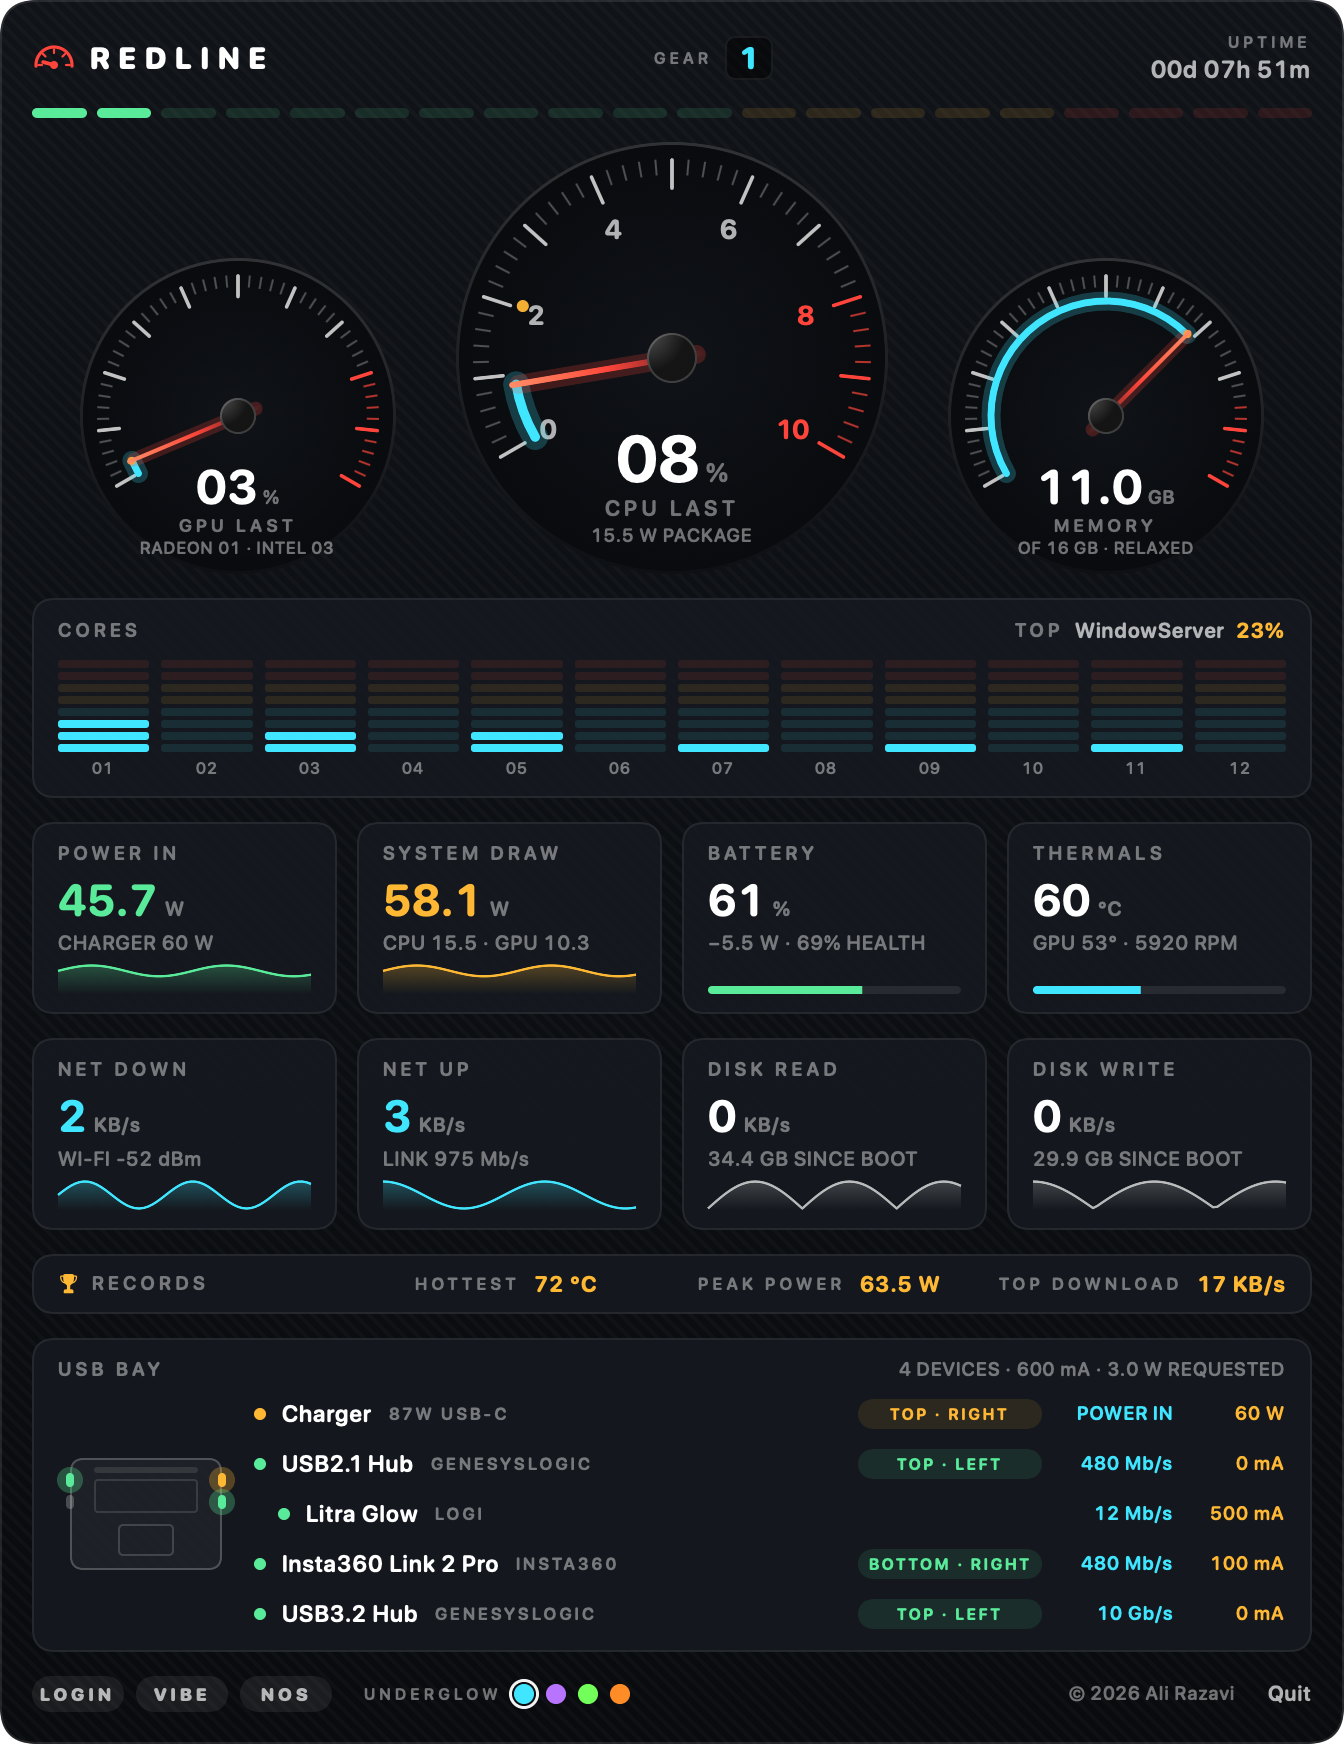
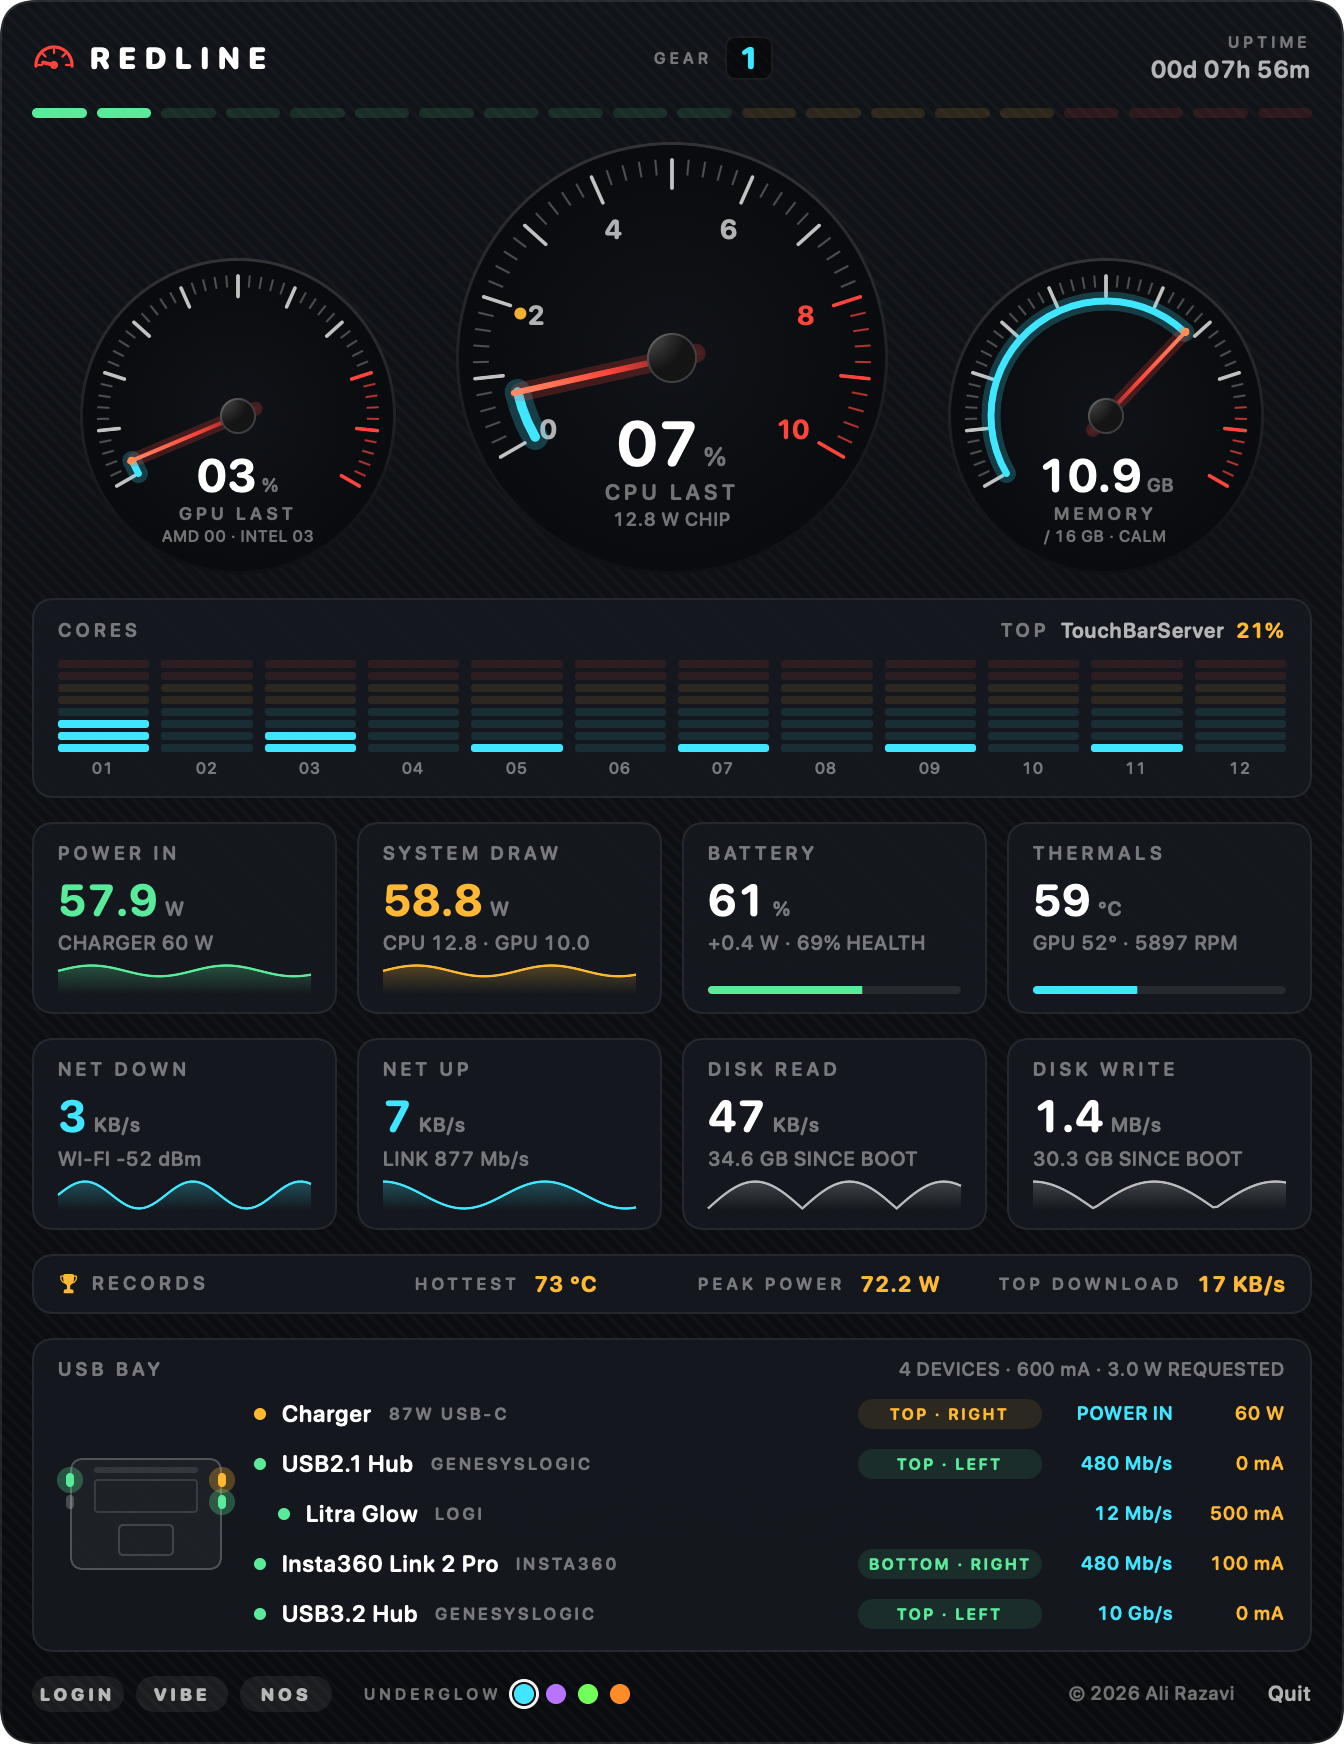
Dial text kept inside the dials; richer VIBE backdrop (colour drift, aurora, sparks, double rings)

diff --git a/src/main.swift b/src/main.swift
@@ -159,7 +159,7 @@ final class Probe {
             if c.contains("AMD") { amd = max(amd, u); seenAMD = true } else if c.contains("Intel") { intel = max(intel, u); seenIntel = true } else { other = max(other, u) }
         }
         s.gpu = min(1, max(amd, intel, other) / 100)
-        s.gpuNote = seenAMD && seenIntel ? String(format: "RADEON %02.0f · INTEL %02.0f", amd, intel) : (seenAMD ? "RADEON" : seenIntel ? "INTEL" : "GPU")
+        s.gpuNote = seenAMD && seenIntel ? String(format: "AMD %02.0f · INTEL %02.0f", amd, intel) : (seenAMD ? "RADEON" : seenIntel ? "INTEL" : "GPU")
 
         // Memory
         var vm = vm_statistics64(); var c = mach_msg_type_number_t(MemoryLayout<vm_statistics64>.size / MemoryLayout<integer_t>.size)
@@ -492,12 +492,13 @@ struct Dial: View {
                 .frame(width: size * 0.115, height: size * 0.115).overlay(Circle().strokeBorder(Color.white.opacity(0.18), lineWidth: 1))
             VStack(spacing: 0) {
                 HStack(alignment: .firstTextBaseline, spacing: 2) {
-                    Text(big).font(digits(size * 0.15, .bold)).foregroundColor(.white)
+                    Text(big).font(digits(size * 0.145, .bold)).foregroundColor(.white)
                     Text(unit).font(.system(size: size * 0.06, weight: .semibold, design: .rounded)).foregroundColor(Ink.dim)
                 }
                 label(title, max(9, size * 0.05))
-                Text(sub).font(digits(max(8.5, size * 0.043), .medium)).foregroundColor(Ink.dim).padding(.top, 1).lineLimit(1)
-            }.offset(y: size * 0.29)
+                Text(sub).font(digits(max(8, size * 0.043), .medium)).foregroundColor(Ink.dim).padding(.top, 1).lineLimit(1)
+                    .frame(maxWidth: size * 0.56)      // never wider than the circle is at that height
+            }.offset(y: size * 0.255)
         }
         .frame(width: size, height: size)
         .animation(spring, value: value).animation(.easeOut(duration: 0.4), value: peak)
@@ -742,9 +743,9 @@ struct Panel: View {
             HStack(alignment: .bottom, spacing: 30) {
                 Dial(title: "GPU LAST", value: v(s.gpu), peak: m.peakGPU, big: String(format: "%02.0f", s.gpu * 100), unit: "%", sub: s.gpuNote, size: 158)
                 Dial(title: "CPU LAST", value: v(s.cpu), peak: m.peakCPU, big: String(format: "%02.0f", s.cpu * 100), unit: "%",
-                     sub: s.cpuW.map { String(format: "%.1f W PACKAGE", $0) } ?? "x10 %", size: 216, numbers: true)
+                     sub: s.cpuW.map { String(format: "%.1f W CHIP", $0) } ?? "x10 %", size: 216, numbers: true)
                 Dial(title: "MEMORY", value: v(s.mem), peak: m.peakMem, big: String(format: "%.1f", s.memUsedGB), unit: "GB",
-                     sub: String(format: "OF %.0f GB · %@", s.memTotalGB, s.pressure >= 4 ? "CRITICAL" : s.pressure == 2 ? "TIGHT" : "RELAXED"), size: 158, redFrom: 0.85)
+                     sub: String(format: "/ %.0f GB · %@", s.memTotalGB, s.pressure >= 4 ? "CRITICAL" : s.pressure == 2 ? "TIGHT" : "CALM"), size: 158, redFrom: 0.85)
             }
             // cores
             VStack(spacing: 8) {
@@ -952,12 +953,14 @@ final class AudioTap {
 }
 
 // ---------- The backdrop: plain Core Animation layers behind the gauges, so it costs almost nothing ----------
-// With VIBE on it shows three silky, mirrored waves (bass in the middle), a breathing glow behind each dial,
-// and a ring that leaves the big dial on every kick. Everything is symmetric about the centre line.
+// With VIBE on: three silky mirrored waves whose colour drifts from the accent in the middle to magenta at the edges,
+// a soft aurora and a breathing glow behind each dial, fine sparks rising on the treble, and a double ring leaving
+// the big dial on every kick. Everything is symmetric about the centre line.
 final class Backdrop: NSView {
     private let grad = CAGradientLayer(), under = CAGradientLayer(), flashLayer = CALayer()
-    private let waveBox = CALayer(), waveFade = CAGradientLayer(), crest = CAShapeLayer(), crestGlow = CAShapeLayer(), ringBox = CALayer()
-    private var waves: [CAShapeLayer] = [], glows: [CAGradientLayer] = [], halos: [CALayer] = []
+    private let waveBox = CALayer(), waveFade = CAGradientLayer(), ringBox = CALayer(), sparks = CAEmitterLayer()
+    private var fills: [CAGradientLayer] = [], masks: [CAShapeLayer] = []          // 3 waves, then crest glow, then crest line
+    private var glows: [CAGradientLayer] = [], aurora: [CAGradientLayer] = [], halos: [CALayer] = []
     private var k: CGFloat = 1, tint = -1, bassAvg: CGFloat = 0, beat: CGFloat = 0, lastRing = 0.0
     private static let points = 21
     private var heights = Array(repeating: [CGFloat](repeating: 0, count: Backdrop.points), count: 3)
@@ -969,12 +972,29 @@ final class Backdrop: NSView {
         wantsLayer = true
         grad.colors = [NSColor(Ink.bg1).cgColor, NSColor(Ink.bg0).cgColor]; grad.startPoint = CGPoint(x: 0.5, y: 1); grad.endPoint = CGPoint(x: 0.5, y: 0)
         layer?.addSublayer(grad)
-        for _ in 0..<3 { let w = CAShapeLayer(); w.strokeColor = nil; waves.append(w); waveBox.addSublayer(w) }
-        for l in [crestGlow, crest] { l.fillColor = nil; l.lineJoin = .round; l.lineCap = .round; waveBox.addSublayer(l) }
-        waveFade.colors = [NSColor.white.cgColor, NSColor.white.withAlphaComponent(0.25).cgColor]      // waves soften towards the bottom
+        for _ in 0..<2 {      // aurora: two wide, very soft colour clouds, mirrored left and right
+            let a = CAGradientLayer(); a.type = .radial; a.startPoint = CGPoint(x: 0.5, y: 0.5); a.endPoint = CGPoint(x: 1, y: 1); a.opacity = 0
+            aurora.append(a); layer?.addSublayer(a)
+        }
+        for i in 0..<5 {
+            let g = CAGradientLayer(); g.startPoint = CGPoint(x: 0, y: 0.5); g.endPoint = CGPoint(x: 1, y: 0.5); g.locations = [0, 0.25, 0.5, 0.75, 1]
+            let m = CAShapeLayer(); m.lineJoin = .round; m.lineCap = .round
+            if i < 3 { m.fillColor = NSColor.white.cgColor; m.strokeColor = nil } else { m.fillColor = nil; m.strokeColor = NSColor.white.cgColor }
+            g.mask = m; fills.append(g); masks.append(m); waveBox.addSublayer(g)
+        }
+        waveFade.colors = [NSColor.white.cgColor, NSColor.white.withAlphaComponent(0.18).cgColor]      // waves melt away towards the bottom
         waveFade.startPoint = CGPoint(x: 0.5, y: 1); waveFade.endPoint = CGPoint(x: 0.5, y: 0)
         waveBox.mask = waveFade; waveBox.opacity = 0
         layer?.addSublayer(waveBox)
+        // sparks: tiny soft dots that rise from the waves when there is treble
+        let dot = NSImage(size: NSSize(width: 12, height: 12), flipped: false) { r in
+            NSGradient(starting: .white, ending: NSColor.white.withAlphaComponent(0))?.draw(in: NSBezierPath(ovalIn: r), relativeCenterPosition: .zero); return true
+        }
+        let cell = CAEmitterCell(); cell.contents = dot.cgImage(forProposedRect: nil, context: nil, hints: nil)
+        cell.birthRate = 34; cell.lifetime = 3.2; cell.lifetimeRange = 1.2; cell.velocity = 30; cell.velocityRange = 16
+        cell.emissionLongitude = .pi / 2; cell.emissionRange = 0.35; cell.scale = 0.22; cell.scaleRange = 0.14; cell.alphaSpeed = -0.28; cell.alphaRange = 0.3
+        sparks.emitterCells = [cell]; sparks.emitterShape = .line; sparks.birthRate = 0; sparks.renderMode = .additive
+        layer?.addSublayer(sparks)
         for _ in 0..<3 {
             let g = CAGradientLayer(); g.type = .radial; g.startPoint = CGPoint(x: 0.5, y: 0.5); g.endPoint = CGPoint(x: 1, y: 1); g.opacity = 0
             glows.append(g); layer?.addSublayer(g)
@@ -993,18 +1013,36 @@ final class Backdrop: NSView {
         a.timingFunction = CAMediaTimingFunction(name: .easeOut); flashLayer.add(a, forKey: "flash")
     }
     private func centre(_ i: Int) -> CGPoint { CGPoint(x: dials[i].x * k, y: bounds.height - dials[i].y * k) }
+    /// The accent colour moved part of the way round the colour wheel towards magenta (the short way).
+    private func toward(_ c: NSColor, _ t: CGFloat) -> NSColor {
+        guard let rgb = c.usingColorSpace(.deviceRGB) else { return c }
+        var h: CGFloat = 0, s: CGFloat = 0, b: CGFloat = 0, a: CGFloat = 0; rgb.getHue(&h, saturation: &s, brightness: &b, alpha: &a)
+        var d = 0.86 - h; if d > 0.5 { d -= 1 }; if d < -0.5 { d += 1 }
+        let nh = h + d * t
+        return NSColor(hue: nh - floor(nh), saturation: min(1, s + 0.12), brightness: b, alpha: 1)
+    }
 
     func place(scale: CGFloat) {
         k = scale
         CATransaction.begin(); CATransaction.setDisableActions(true)
         for l in [grad, waveBox, ringBox, flashLayer] as [CALayer] { l.frame = bounds }
-        for l in waves + [crest, crestGlow] { l.frame = bounds }
+        for l in fills as [CALayer] + masks as [CALayer] { l.frame = bounds }
         waveFade.frame = CGRect(x: 0, y: bounds.height - baseline * k, width: bounds.width, height: baseline * k)
-        crest.lineWidth = 1.5 * k; crestGlow.lineWidth = 7 * k
+        masks[3].lineWidth = 9 * k; masks[4].lineWidth = 1.6 * k
         for (i, g) in glows.enumerated() {
             let size = dials[i].r * 4.6 * k, c = centre(i)
             g.frame = CGRect(x: c.x - size / 2, y: c.y - size / 2, width: size, height: size)
         }
+        for (i, a) in aurora.enumerated() {
+            let w = 620 * k, h = 420 * k, x = (i == 0 ? 150 : cardW - 150) * k
+            a.frame = CGRect(x: x - w / 2, y: bounds.height - 250 * k - h / 2, width: w, height: h)
+            // a slow, mirrored drift so the colour never sits still
+            let drift = CABasicAnimation(keyPath: "transform.translation.x"); drift.fromValue = 0; drift.toValue = (i == 0 ? 46 : -46) * k
+            drift.duration = 7; drift.autoreverses = true; drift.repeatCount = .infinity; drift.timingFunction = CAMediaTimingFunction(name: .easeInEaseOut)
+            a.add(drift, forKey: "drift")
+        }
+        sparks.frame = bounds; sparks.emitterPosition = CGPoint(x: bounds.midX, y: bounds.height - (baseline - 40) * k)
+        sparks.emitterSize = CGSize(width: (cardW - 120) * k, height: 1)
         under.frame = CGRect(x: 0, y: 0, width: bounds.width, height: 3 * k)
         let hw = (cardW - 32 - 95) / 20.0 * k
         for (i, h) in halos.enumerated() {
@@ -1016,13 +1054,17 @@ final class Backdrop: NSView {
     private func recolor(force: Bool = false) {
         guard force || tint != Ink.glow else { return }
         tint = Ink.glow
-        let c = NSColor(Ink.ice)
+        let c = NSColor(Ink.ice), c1 = toward(c, 0.5), c2 = toward(c, 0.95)
         CATransaction.begin(); CATransaction.setDisableActions(true)
-        for (w, a) in zip(waves, [0.10, 0.14, 0.20] as [CGFloat]) { w.fillColor = c.withAlphaComponent(a).cgColor }     // back, middle, front
-        crest.strokeColor = c.withAlphaComponent(0.95).cgColor; crestGlow.strokeColor = c.withAlphaComponent(0.20).cgColor
-        glows.forEach { $0.colors = [c.withAlphaComponent(0.50).cgColor, c.withAlphaComponent(0).cgColor] }
+        for (g, a) in zip(fills, [0.16, 0.22, 0.30, 0.26, 1.0] as [CGFloat]) {      // back, middle, front wave, crest glow, crest line
+            g.colors = [c2, c1, c, c1, c2].map { $0.withAlphaComponent(a).cgColor }
+        }
+        glows[0].colors = [c.withAlphaComponent(0.50).cgColor, c.withAlphaComponent(0).cgColor]
+        for g in glows[1...] { g.colors = [c1.withAlphaComponent(0.50).cgColor, c1.withAlphaComponent(0).cgColor] }
+        aurora.forEach { $0.colors = [c2.withAlphaComponent(0.34).cgColor, c1.withAlphaComponent(0.12).cgColor, c1.withAlphaComponent(0).cgColor] }
+        sparks.emitterCells?.first?.color = c.blended(withFraction: 0.45, of: .white)?.cgColor
         halos.forEach { $0.backgroundColor = c.withAlphaComponent(0.55).cgColor }
-        under.colors = [c.withAlphaComponent(0).cgColor, c.cgColor, c.withAlphaComponent(0).cgColor]
+        under.colors = [c2.withAlphaComponent(0).cgColor, c1.cgColor, c.cgColor, c1.cgColor, c2.withAlphaComponent(0).cgColor]
         CATransaction.commit()
     }
     /// A smooth curve through evenly spaced heights (Catmull-Rom), optionally closed down to the baseline.
@@ -1038,17 +1080,22 @@ final class Backdrop: NSView {
         if closed { p.closeSubpath() }
         return p
     }
+    /// A kick: two rings leave the rim of the big dial, the second a moment behind and fainter.
     private func ring() {
-        let c = centre(0), r = dials[0].r * k
-        let l = CAShapeLayer(); l.frame = CGRect(x: c.x - r, y: c.y - r, width: 2 * r, height: 2 * r)
-        l.path = CGPath(ellipseIn: l.bounds.insetBy(dx: 1, dy: 1), transform: nil)
-        l.fillColor = nil; l.strokeColor = NSColor(Ink.ice).cgColor; l.lineWidth = 2 * k; l.opacity = 0
-        ringBox.addSublayer(l)
-        let grow = CABasicAnimation(keyPath: "transform.scale"); grow.fromValue = 1.0; grow.toValue = 1.85
-        let fade = CABasicAnimation(keyPath: "opacity"); fade.fromValue = 0.55; fade.toValue = 0.0
-        let g = CAAnimationGroup(); g.animations = [grow, fade]; g.duration = 1.0; g.timingFunction = CAMediaTimingFunction(name: .easeOut)
-        CATransaction.begin(); CATransaction.setCompletionBlock { l.removeFromSuperlayer() }
-        l.add(g, forKey: "ring"); CATransaction.commit()
+        let c = centre(0), r = dials[0].r * k, col = NSColor(Ink.ice)
+        for (delay, alpha, width) in [(0.0, 0.60, 2.2), (0.13, 0.30, 1.2)] as [(Double, Float, CGFloat)] {
+            let l = CAShapeLayer(); l.frame = CGRect(x: c.x - r, y: c.y - r, width: 2 * r, height: 2 * r)
+            l.path = CGPath(ellipseIn: l.bounds.insetBy(dx: 1, dy: 1), transform: nil)
+            l.fillColor = nil; l.strokeColor = col.cgColor; l.lineWidth = width * k; l.opacity = 0
+            ringBox.addSublayer(l)
+            let grow = CABasicAnimation(keyPath: "transform.scale"); grow.fromValue = 1.0; grow.toValue = 1.9
+            let fade = CABasicAnimation(keyPath: "opacity"); fade.fromValue = alpha; fade.toValue = 0.0
+            let thin = CABasicAnimation(keyPath: "lineWidth"); thin.fromValue = width * k; thin.toValue = 0.4 * k
+            let g = CAAnimationGroup(); g.animations = [grow, fade, thin]; g.duration = 1.1; g.beginTime = CACurrentMediaTime() + delay
+            g.timingFunction = CAMediaTimingFunction(controlPoints: 0.16, 1, 0.3, 1)        // fast out, long glide
+            CATransaction.begin(); CATransaction.setCompletionBlock { l.removeFromSuperlayer() }
+            l.add(g, forKey: "ring"); CATransaction.commit()
+        }
     }
     func set(_ levels: [Float]) {
         recolor()
@@ -1062,12 +1109,14 @@ final class Backdrop: NSView {
         for j in 1..<n - 1 { target[j] = raw[j - 1] * 0.25 + raw[j] * 0.5 + raw[j + 1] * 0.25 }
         let follow: [CGFloat] = [0.10, 0.20, 0.42], gain: [CGFloat] = [1.15, 0.92, 0.68]       // the back wave is tall and lazy, the front one low and quick
         for i in 0..<3 { for j in 0..<n { heights[i][j] += (target[j] - heights[i][j]) * follow[i] } }
-        let loud = CGFloat(levels.max() ?? 0), bass = CGFloat(levels.prefix(6).reduce(0, +) / 6), mid = CGFloat(levels[14..<34].reduce(0, +) / 20)
+        let loud = CGFloat(levels.max() ?? 0), bass = CGFloat(levels.prefix(6).reduce(0, +) / 6)
+        let mid = CGFloat(levels[14..<34].reduce(0, +) / 20), high = CGFloat(levels[34...].reduce(0, +)) / CGFloat(max(1, levels.count - 34))
 
         CATransaction.begin(); CATransaction.setDisableActions(true)
-        for i in 0..<3 { waves[i].path = curve(heights[i], gain: gain[i], closed: true) }
-        let line = curve(heights[2], gain: gain[2], closed: false); crest.path = line; crestGlow.path = line
+        for i in 0..<3 { masks[i].path = curve(heights[i], gain: gain[i], closed: true) }
+        let line = curve(heights[2], gain: gain[2], closed: false); masks[3].path = line; masks[4].path = line
         waveBox.opacity = Float(min(1, max(heights[0].max() ?? 0, loud) * 5))        // fades out completely in silence
+        sparks.birthRate = Float(min(1, high * 1.6))
         CATransaction.commit()
 
         CATransaction.begin(); CATransaction.setAnimationDuration(0.10)
@@ -1075,8 +1124,9 @@ final class Backdrop: NSView {
             let v = i == 0 ? bass : mid * 1.2, sc = 0.72 + 0.42 * v
             g.opacity = Float(min(1, v * 1.1)); g.transform = CATransform3DMakeScale(sc, sc, 1)
         }
+        aurora.forEach { $0.opacity = Float(min(1, (heights[0].max() ?? 0) * 1.4)) }      // follows the lazy back wave, so it swells and never flickers
         under.opacity = Float(min(1, bass * 1.3))
-        // a kick drum = bass jumping well above its recent average: a ring leaves the big dial and the shift lights glow from the middle out
+        // a kick drum = bass jumping well above its recent average: rings leave the big dial and the shift lights glow from the middle out
         let now = CACurrentMediaTime()
         if bass > 0.22, bass > bassAvg * 1.3 { beat = 1; if now - lastRing > 0.24 { lastRing = now; ring() } } else { beat *= 0.80 }
         bassAvg = bassAvg * 0.92 + bass * 0.08

diff --git a/README.md b/README.md
@@ -29,7 +29,7 @@ Copyright (c) 2026 Ali Razavi. All rights reserved. See `LICENSE`.
 - Click the needle in the menu bar. Every needle sweeps to the top and settles.
 - Drag the card by its background to move it. It has one fixed size.
 - Click anywhere outside the card, or press Esc, to close it.
-- **VIBE**: behind the dials, three soft mirrored waves (bass in the middle), a glow breathing behind each dial, a ring that leaves the big dial on every kick and a beat glow behind the shift lights, driven by whatever the Mac is playing. It listens only while the card is open and VIBE is on; the sound is not changed, stored or sent anywhere.
+- **VIBE**: behind the dials, three soft mirrored waves whose colour drifts from the accent in the middle to magenta at the edges, a slow aurora, a glow breathing behind each dial, fine sparks on the treble, a double ring leaving the big dial on every kick and a beat glow behind the shift lights, driven by whatever the Mac is playing. It listens only while the card is open and VIBE is on; the sound is not changed, stored or sent anywhere.
 - **NOS**: switches Coffee Mode (the keep-awake app) on or off, with a purple flash. Redline makes no sounds.
 - **Underglow**: four accent colours.
 
